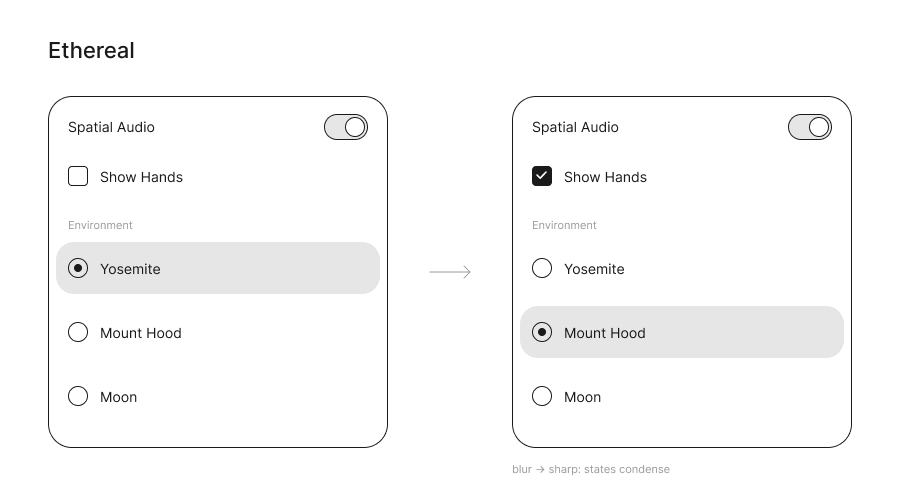
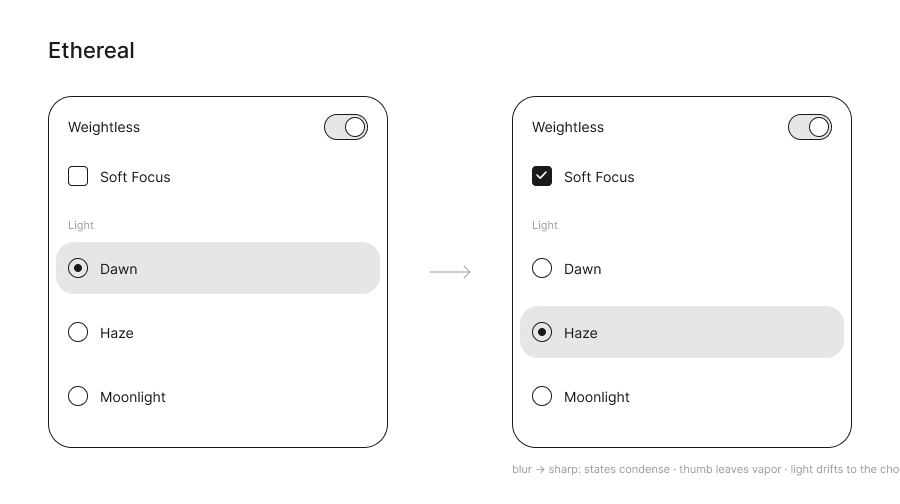
Selectors: push the Ethereal set toward airy, luminous, weightless
Pale dawn sky with drifting fog and rising motes, near-invisible glowing glass, thin luminous title,
pearl switch thumb that leaves vapor, condensing lavender checkbox, a pool of light drifting to the
chosen radio. Content: Atmosphere — Weightless / Soft Focus / Light (Dawn, Haze, Moonlight).

diff --git a/Selectors/src/styles.css b/Selectors/src/styles.css
@@ -103,19 +103,40 @@ main { max-width: 1040px; margin: 0 auto; padding: 48px 16px 80px; }
 .vision > * { position: relative; z-index: 1; }
 
 /* ---------- Mist Takes Shape: every state condenses out of a blur ---------- */
-.s-mist { --check: #1d3640; background: radial-gradient(80% 60% at 20% 20%, #8fb7c9 0%, transparent 60%), radial-gradient(70% 60% at 85% 80%, #c79a7d 0%, transparent 60%), linear-gradient(160deg, #42606b, #2b3a40 55%, #5b4a43); }
-.s-mist::before { content: ''; position: absolute; inset: -10%; z-index: 0; pointer-events: none; opacity: .35; filter: blur(30px);
-  background: radial-gradient(30% 18% at 30% 70%, #fff, transparent 70%), radial-gradient(28% 14% at 75% 35%, #fff, transparent 70%);
-  animation: fog 26s ease-in-out infinite alternate; }
-@keyframes fog { to { transform: translateX(8%); } }
-.s-mist .cb { background: var(--cb-off); box-shadow: inset 0 0 0 var(--cb-stroke) var(--ring); }
-.s-mist .cb::before { content: ''; position: absolute; inset: 0; border-radius: inherit; background: var(--on);
+.s-mist { --check: #4b56a8; --panel: rgba(255,255,255,.26); --light: rgba(255,255,255,.75); --ring: rgba(61,69,89,.28); --cb-off: rgba(255,255,255,.35);
+  background: radial-gradient(70% 60% at 15% 10%, #ffffff 0%, transparent 60%), radial-gradient(60% 55% at 90% 15%, #f3e6f4 0%, transparent 65%),
+    radial-gradient(70% 70% at 80% 95%, #dfe9fb 0%, transparent 65%), linear-gradient(165deg, #eef1f8, #e9ecf7 45%, #f4eef4); }
+/* two layers of fog drifting at different speeds, and faint motes of light rising through them */
+.s-mist::before, .s-mist::after { content: ''; position: absolute; inset: -20%; z-index: 0; pointer-events: none; }
+.s-mist::before { opacity: .85; filter: blur(34px);
+  background: radial-gradient(28% 14% at 25% 65%, #fff, transparent 70%), radial-gradient(24% 12% at 70% 30%, #fff, transparent 70%), radial-gradient(30% 16% at 55% 85%, #f7f3ff, transparent 70%);
+  animation: fog 38s ease-in-out infinite alternate; }
+.s-mist::after { opacity: .5;
+  background: radial-gradient(circle, rgba(255,255,255,.95) 0 1.2px, transparent 2px) 0 0 / 90px 110px, radial-gradient(circle, rgba(220,226,255,.9) 0 1px, transparent 1.6px) 40px 60px / 130px 150px;
+  animation: motes 40s linear infinite; }
+@keyframes fog { to { transform: translate(7%, -3%); } }
+@keyframes motes { to { background-position: 0 -440px, 40px -540px; } }
+.s-mist .set-head h2 { font-weight: 300; letter-spacing: -0.02em; background: linear-gradient(100deg, #6f7fd6, #9fb8e8 50%, #c9a7d8); -webkit-background-clip: text; background-clip: text; color: transparent; }
+.s-mist .list { backdrop-filter: blur(26px) saturate(160%); -webkit-backdrop-filter: blur(26px) saturate(160%);
+  box-shadow: inset 0 1px 0 rgba(255,255,255,.95), inset 0 0 0 1px rgba(255,255,255,.55), 0 0 70px rgba(196,206,255,.45), 0 40px 80px -40px rgba(80,90,140,.35); }
+.s-mist .list-title { color: rgba(61,69,89,.45); letter-spacing: .14em; }
+/* switch: a glowing track and a pearl thumb that leaves vapor behind it */
+.s-mist .sw-track { background: color-mix(in oklab, #c3cdf7 clamp(0%, calc(var(--p) * 100%), 100%), rgba(61,69,89,.1));
+  box-shadow: inset 0 1px 2px rgba(61,69,89,.12), 0 0 calc(var(--p) * 16px) rgba(170,182,255,.65); }
+.s-mist .sw-thumb { background: radial-gradient(circle at 38% 32%, #fff 0 35%, #eef0fb); box-shadow: 0 3px 10px rgba(80,90,150,.25), 0 0 calc(10px + var(--k) * 10px) rgba(255,255,255,.9); }
+.sw-trail { position: absolute; left: var(--inset); top: calc((var(--sw-h) - var(--th-h)) / 2); height: var(--th-h); border-radius: var(--th-r); background: #fff; filter: blur(5px); pointer-events: none; }
+/* checkbox: the fill and the tick condense out of mist */
+.s-mist .cb { background: var(--cb-off); box-shadow: inset 0 0 0 var(--cb-stroke) var(--ring), 0 0 calc(var(--p) * 14px) rgba(170,182,255,.6); }
+.s-mist .cb::before { content: ''; position: absolute; inset: 0; border-radius: inherit; background: linear-gradient(135deg, #d5dcfb, #c3cdf7);
   opacity: var(--p); filter: blur(calc((1 - var(--p)) * 6px)); transform: scale(calc(1.6 - .6 * var(--p))); }
 .s-mist .cb svg { position: relative; filter: blur(calc((1 - var(--p)) * 3px)); }
 .s-mist .cb path { opacity: var(--p); }
-.s-mist .rd-glide { display: none; }
-.s-mist .rd-dot { background: #fff; opacity: var(--p); filter: blur(calc((1 - var(--p)) * 5px)); transform: scale(calc(1.9 - .9 * var(--s))); box-shadow: none; }
-.s-mist .row-radio .label { opacity: calc(.55 + .45 * var(--p)); }
+/* radio: a pool of soft light drifts to the choice, and its dot condenses there */
+.s-mist .rd-glide { background: radial-gradient(70% 140% at 18% 50%, rgba(255,255,255,.85), rgba(255,255,255,0) 70%); border-radius: 24px; }
+.s-mist .rd { background: rgba(255,255,255,.4); }
+.s-mist .rd-dot { background: radial-gradient(circle at 40% 35%, #fff, #8d9be6 75%); opacity: var(--p); filter: blur(calc((1 - var(--p)) * 5px));
+  transform: scale(calc(1.9 - .9 * var(--s))); box-shadow: 0 0 calc(var(--p) * 12px) rgba(141,155,230,.85); }
+.s-mist .row-radio .label { opacity: calc(.5 + .5 * var(--p)); }
 
 /* ---------- Choices Unfold: warm paper glass; the chosen tab unfolds its rows ---------- */
 .s-unfold { --panel: rgba(196,160,140,.3); --light: rgba(255,255,255,.4); --check: #fbf3ec; --cb-off: rgba(255,250,245,.6); --ring: rgba(58,42,36,.35);
@@ -244,7 +265,7 @@ main { max-width: 1040px; margin: 0 auto; padding: 48px 16px 80px; }
   .vision .list { background: color-mix(in oklab, var(--panel, #445) 100%, #222); backdrop-filter: none; -webkit-backdrop-filter: none; }
 }
 @media (prefers-reduced-motion: reduce) {
-  .s-mist::before, .unfold-content { animation: none !important; }
+  .s-mist::before, .s-mist::after, .unfold-content { animation: none !important; }
 }
 @media (prefers-contrast: more) {
   .list { outline: 2px solid var(--ink); }

diff --git a/Selectors/src/App.jsx b/Selectors/src/App.jsx
@@ -71,6 +71,7 @@ function Switch({ checked, onChange, label, detail, icon, tag, t }) {
   const pos = useSpring(checked ? 1 : 0, t.spring)
   const [pressed, setPressed] = useState(false)
   const press = useSpring(pressed ? 1 : 0, { damping: 1, response: 0.2 })
+  const trail = useSpring(checked ? 1 : 0, { damping: 1, response: 0.95 }).value // a slower follower: the thumb's vapor
   const drag = useRef(null)
   const travel = t.swW - t.thW - 2 * t.inset
 
@@ -125,6 +126,7 @@ function Switch({ checked, onChange, label, detail, icon, tag, t }) {
         onClick={(e) => { if (e.detail === 0) onChange(!checked) }} // keyboard (Space / Enter)
         style={{ '--p': p, '--k': k, '--tx': `${t.inset + x + w / 2}px` }}>
         <span className="sw-track" />
+        {v === 'mist' && <span className="sw-trail" style={{ transform: `translateX(${clamp(trail) * travel}px)`, width: t.thW, opacity: Math.min(0.7, Math.abs(trail - p) * 2.2) }} />}
         <span className="sw-thumb" style={{ transform, width: w,
           filter: fog > 0.01 ? `blur(${fog * 4}px)` : undefined, opacity: 1 - fog * 0.5 }} />
       </button>
@@ -198,14 +200,14 @@ const SF = '-apple-system, BlinkMacSystemFont, "SF Pro Text", Inter, system-ui, 
 const SETS = [
   {
     id: 'mist', concept: 'Mist Takes Shape', name: 'Mist', tone: 'Ethereal', platform: 'visionOS',
-    content: { topic: 'Immersion', sw: ['Spatial Audio', '', true], cb: ['Show Hands', '', false], radio: ['Environment', ['Yosemite', 'Mount Hood', 'Moon'], 'Yosemite'] },
+    content: { topic: 'Atmosphere', sw: ['Weightless', '', true], cb: ['Soft Focus', '', false], radio: ['Light', ['Dawn', 'Haze', 'Moonlight'], 'Dawn'] },
     t: {
-      font: SF, fontName: 'SF Pro Text Medium', fw: 500, fs: 17, lh: 22, ls: '-0.3px',
+      font: SF, fontName: 'SF Pro Text Medium', fw: 400, fs: 17, lh: 22, ls: '-0.1px',
       dfs: 13, dlh: 18, rowH: 54, padX: 18, gap: 14, listR: 30, divider: 0, listGap: 22,
       swW: 54, swH: 32, thW: 28, thH: 28, inset: 2, swR: 16, thR: 14, stretch: 6, swStroke: 0,
       cb: 26, cbR: 8, cbStroke: 1.5, checkStroke: 2.4, rd: 24, rdDot: 10, rdStroke: 1.5,
-      ink: '#ffffff', muted: 'rgba(255,255,255,.62)', on: '#a8d8e8', off: 'rgba(255,255,255,.18)', thumb: '#ffffff', accent: '#ffffff',
-      spring: { damping: 1, response: 0.6 }, variant: 'mist',
+      ink: '#3d4559', muted: 'rgba(61,69,89,.5)', on: '#c3cdf7', off: 'rgba(61,69,89,.1)', thumb: '#ffffff', accent: '#8d9be6',
+      spring: { damping: 1, response: 0.7 }, variant: 'mist',
     },
   },
   {
@@ -563,7 +565,7 @@ const SetBody = (props) => { const B = BODIES[props.set.id] ?? SetList; return <
    the enlarged draft is drawn in a layer above the page (so no section can clip or cover it),
    growing out of the thumbnail and shrinking back into it */
 // bump when the Figma drafts are re-exported, so browsers fetch the new images
-const DRAFT_VERSION = 'wire-2'
+const DRAFT_VERSION = 'wire-3'
 
 function DraftThumb({ set }) {
   const ref = useRef(null)
